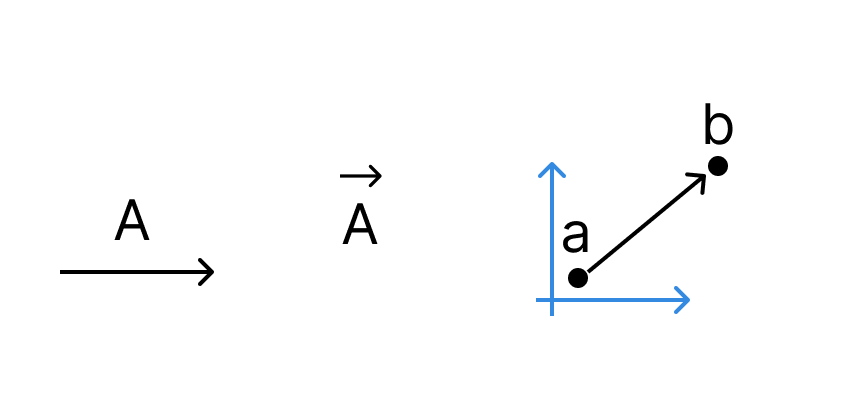
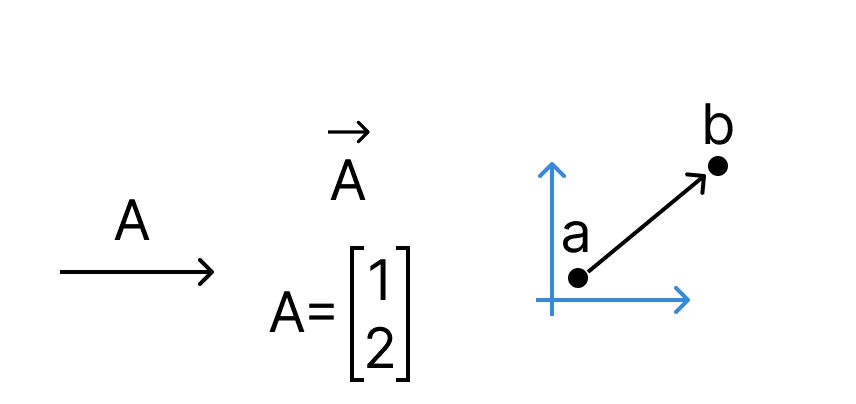
images

Changed region(s): [[0.3037, 0.3861, 0.486, 0.9505], [0.3949, 0.297, 0.4252, 0.3564]]

diff --git a/data/s2.md b/data/s2.md
@@ -17,7 +17,7 @@ Qu'allez-vous apprendre ?
 *   Utiliser **Rapier** (dans le navigateur) pour simuler des objets physiques.
 *   Développer des compétences en programmation orientées physique.
 
-![Pyramid representing the course structure](images/course_pyramid.png)
+![Pyramid representing the course structure](../images/pyramide.png)
 
 ---
 
@@ -40,7 +40,7 @@ La Physique : Plus que des explosions !
 *   Le gameplay :  Nouvelles mécaniques de jeu, interactions dynamiques.
 *   Exemples : *The Legend of Zelda: Breath of the Wild*, *Portal*, *Angry Birds* (rappeler que ces jeux sont toujours des exemples).
 
-![Game screenshots showcasing physics](images/game_physics_examples.png)
+![Game screenshots showcasing physics](../images/example_01.png)
 
 ---
 
@@ -50,7 +50,7 @@ Vecteurs : Le GPS des Objets Virtuels
 *   Décrivent la position, la vitesse, l'accélération, les forces.
 *   Essentiels pour décrire le mouvement et les interactions.
 
-![2D plane with position and velocity vectors](images/vectors_2d.png)
+![2D plane with position and velocity vectors](../images/vectors.png)
 
 ---
 
@@ -60,7 +60,7 @@ Déplacements et Différences
 *   **Soustraction :**  $\vec{a} - \vec{b}$.
 *   Utilisation : Déplacer un objet, trouver la distance entre deux points.
 
-![Vector addition and subtraction](../images/vectors.png)
+![Vector addition and subtraction](../images/addition.png)
 
 ---
 
@@ -71,17 +71,18 @@ Changer la Vitesse ou la Force
 *   $0 < k < 1$ : "Ralentir" / Diminuer la force.
 *   $k < 0$ : Inverser la direction.
 
-![Scalar multiplication of a vector](images/scalar_multiplication.png)
+![Scalar multiplication of a vector](../images/dim2.png)
 
 ---
 
 Le secret des angles
 
 *   Explication du produit scalaire : Formule et explication géométrique (projection).
+$\vec{a}⋅ \vec{b} =∣a∣.∣b∣.cosθ$
 *   Exemples : Déterminer l'angle entre des vecteurs, l'éclairage (survol).
 *   Si proche de 1 : même direction ; -1 : directions opposées ; 0 : perpendiculaires.
 
-![Two vectors with an angle θ and projection](images/dot_product.png)
+![Two vectors with an angle θ and projection](../images/dot.png)
 
 ---
 
